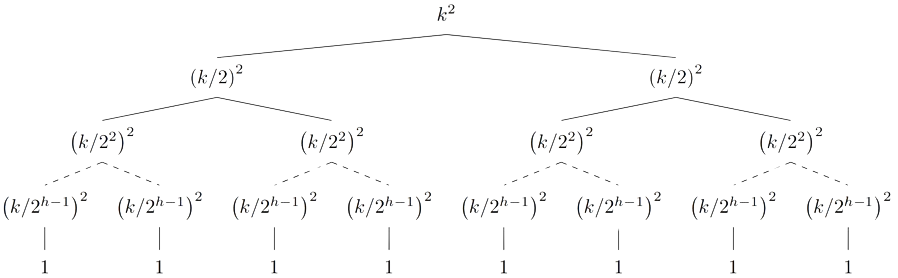
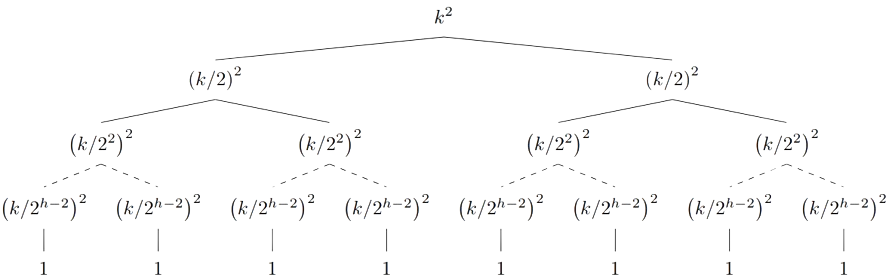
resized image

diff --git a/public/posts/mpitree-project/index.html b/public/posts/mpitree-project/index.html
@@ -64,7 +64,7 @@
 <meta property="og:type" content="article" />
 <meta property="og:url" content="https://michaelneuper.github.io/hugo-texify3/posts/mpitree-project/" /><meta property="article:section" content="posts" />
 <meta property="article:published_time" content="2023-05-16T00:00:00+00:00" />
-<meta property="article:modified_time" content="2024-01-19T01:13:41-08:00" /><meta property="og:site_name" content="Jason Duong" />
+<meta property="article:modified_time" content="2024-01-19T04:05:47-08:00" /><meta property="og:site_name" content="Jason Duong" />
 
 
 
@@ -75,8 +75,8 @@
   
   <meta itemprop="name" content="A Parallel Decision Tree Classifier">
 <meta itemprop="description" content="A Parallel Decision Tree Classifier implementation using MPI (Message Passing Interface)"><meta itemprop="datePublished" content="2023-05-16T00:00:00+00:00" />
-<meta itemprop="dateModified" content="2024-01-19T01:13:41-08:00" />
-<meta itemprop="wordCount" content="1147">
+<meta itemprop="dateModified" content="2024-01-19T04:05:47-08:00" />
+<meta itemprop="wordCount" content="1129">
 <meta itemprop="keywords" content="Python,LaTeX,Black,Git," />
 
   
@@ -183,7 +183,7 @@
           <svg width="0.75em" height="0.75em" viewBox="0 0 24 24" fill="none" xmlns="http://www.w3.org/2000/svg">
             <path d="M15.4998 5.49994L18.3282 8.32837M3 20.9997L3.04745 20.6675C3.21536 19.4922 3.29932 18.9045 3.49029 18.3558C3.65975 17.8689 3.89124 17.4059 4.17906 16.9783C4.50341 16.4963 4.92319 16.0765 5.76274 15.237L17.4107 3.58896C18.1918 2.80791 19.4581 2.80791 20.2392 3.58896C21.0202 4.37001 21.0202 5.63634 20.2392 6.41739L8.37744 18.2791C7.61579 19.0408 7.23497 19.4216 6.8012 19.7244C6.41618 19.9932 6.00093 20.2159 5.56398 20.3879C5.07171 20.5817 4.54375 20.6882 3.48793 20.9012L3 20.9997Z" stroke="currentColor" stroke-width="2" stroke-linecap="round" stroke-linejoin="round"/>
           </svg>
-          1147 words
+          1129 words
         </span>
       
       
@@ -248,20 +248,27 @@
     
     <p><a href="https://github.com/ben-my-to/mpitree">Source Code</a></p>
 <h2 id="try-it-out1">Try it Out!<sup id="fnref:1"><a href="#fn:1" class="footnote-ref" role="doc-noteref">1</a></sup></h2>
-<script type="text/javascript" src="https://code.jquery.com/jquery-1.7.1.min.js"></script>
+<p><a href="https://jsfiddle.net/nbkLudma/1/">jsfiddle</a></p>
+<!-- <script type="text/javascript" src="https://code.jquery.com/jquery-1.7.1.min.js"></script>
+
 <input type="range" id="range" min="0" max="10" value="10" oninput="update_max_depth(this.value);">
 max_depth = <output id="slider1-value"></output>
+
 <input type="range" id="range2" min="1" max="50" value="40" oninput="update_n_samples(this.value);">
 n_samples = <output id="slider2-value"></output>
+
 <input type="range" id="range3" min="1" max="4" value="3" oninput="update_n_classes(this.value);">
 n_classes = <output id="slider3-value"></output>
-<p>$\text{Train/Test Accuracy}$ = <output id="accuracy"></output></p>
-<p><button type="button" onclick="gen_points(); redraw()" style="height: 40px; width: 200px;">Generate New Training Data</button></p>
-<!-- <script type="text/javascript" src="js/dt.js"></script> -->
+
+$\text{Train/Test Accuracy}$ = <output id="accuracy"></output>
+
+<button type="button" onclick="gen_points(); redraw()" style="height: 40px; width: 200px;">Generate New Training Data</button>
+
 <figure>
     <canvas width="800" height="400" id="boundary"></canvas><br>
     <figurecaption>Fig. 1: Decision Tree Classifier Demo</figurecaption>
 </figure>
+
 <script type="text/javascript">
 // MODIFIED FROM: http://vision.stanford.edu/teaching/cs231n-demos/knn/knn.js
 
@@ -714,7 +721,7 @@ function draw_boundaries(ctx, state, step) {
   }
   document.getElementById("accuracy").innerHTML = accuracy_score(clf, state.points).toString() + "/" + accuracy_score(clf, state.test);
 }
-</script>
+</script> -->
 <h2 id="introduction">Introduction</h2>
 <p>A <strong>Decision Tree</strong> is an $n$-nary tree where each node represents a feature <em>(interior nodes)</em> or response <em>(terminal/leaf nodes)</em> value, and each branch represents a condition on some feature. Decision Trees are intuitive <em>supervised</em> machine learning algorithms for both classification and regression problems. Decision Trees behave by posing questions about the data to narrow their choices until they are somewhat confident in their predictions. The fundamental procedure for a decision tree involves recursively querying each feature and partitioning the dataset and feature space into disjoint subsets and regions until there is no ambiguity about the response variable. The primary goal of any machine learning model is <em>generalization</em> &ndash; the model&rsquo;s ability to perform well on future, unseen data. Therefore, the general approach to learning an optimal decision tree involves asking &ldquo;good&rdquo; questions <em>(<strong>split features</strong> &ndash; the features that maximize the information gain<sup id="fnref:2"><a href="#fn:2" class="footnote-ref" role="doc-noteref">2</a></sup>)</em> about the data that leads to the most certainty about the response variable each time.</p>
 <p>A <strong>Decision Tree Classifier</strong> is a decision tree whose prediction of a response variable is from a set of finite classes <em>(multi-classification)</em>. Given some observed data, examples of classification-type problems is: whether an incoming patient has cancer, an email is spam or not, or a fruit is an apple, banana, or orange.</p>
@@ -757,10 +764,10 @@ $$</p>
 <p>Proof by Induction.</p>
 <p>At every terminated recursive call from a parent communicator $|m|\ge 2$, each process must exchange $k$ messages for a total of $k^2$ messages through the <code>MPI.allgather</code> function. As such, each process obtains a sub-tree computed by every other process.</p>
 <figure class="image">
-<img src="https://raw.githubusercontent.com/ben-my-to/website/main/static/images/num_mess_exchange.png" alt="Message Exchanges" style="width:45%;display:block;margin-left:auto;margin-right:auto;">
+<img src="https://raw.githubusercontent.com/ben-my-to/website/main/static/images/num_mess_exchange.png" alt="Message Exchanges" style="width:55%;display:block;margin-left:auto;margin-right:auto;">
   <figcaption>Fig. 5: Message Exchanges Example</figcaption>
 </figure>
-<p><strong>Definition 1</strong> constructs a full $n$-nary communicator tree $\mathbf{M}$  <em>(each node has 0 or $n$ children)</em> of height $h=\lceil\log_n k\rceil + 1$. Let $c\in[h]$, where $[h]=\lbrace 0,\ldots,\lceil\log_n k\rceil\rbrace$, be the number of splits; each performed by <code>MPI.Split</code>. At split $c=0$, processors exchange $k^2$ messages. At the successor split $c=1$, processors exchange $n\cdot(k/n)^2$ messages. At split $c=3$, processors exchange $n^2\cdot(k/n^4)^2$ and so on and so forth<sup id="fnref:5"><a href="#fn:5" class="footnote-ref" role="doc-noteref">5</a></sup>. Therefore, we can define the recurrence relation $\mathcal{M}(k)$, the total number of exchanged messages by $k$ processors, as</p>
+<p><strong>Definition 1</strong> constructs a full $n$-nary communicator tree $\mathbf{M}$  <em>(each node has 0 or $n$ children)</em> of height $h=\lceil\log_n k\rceil + 1$. Let $c\in[h]$, where $[h]=\left[0,\ldots,\lceil\log_n k\rceil\right)$, be the number of splits; each performed by <code>MPI.Split</code>. At split $c=0$, processors exchange $k^2$ messages. At the successor split $c=1$, processors exchange $n\cdot(k/n)^2$ messages. At split $c=3$, processors exchange $n^2\cdot(k/n^4)^2$ and so on and so forth<sup id="fnref:5"><a href="#fn:5" class="footnote-ref" role="doc-noteref">5</a></sup>. Therefore, we can define the recurrence relation $\mathcal{M}(k)$, the total number of exchanged messages by $k$ processors, as</p>
 <p>$$
 \mathcal{M}(k)=
 \begin{cases}
@@ -775,16 +782,16 @@ $$</p>
 &amp;= (1)\cdot k^2 + \left[n^{(1)} \cdot (k/n)^2 + \mathcal{M}(k/n^2)\right]\\
 &amp;= {\color{blue}k^2} + nk^2/n^2 + \left[n^{(2)} \cdot (k/n^2)^2 + \mathcal{M}(k/n^3)\right]\\
 &amp;\ \ \vdots&amp; \\
-&amp;= k^2 + {\color{blue}k^2/n} + n^2 k^2/n^4 + \mathcal{M}(k/n^3) + \dots + \mathcal{M}(k/n^{h-1})\\
+&amp;= k^2 + {\color{blue}k^2/n} + n^2 k^2/n^4 + \mathcal{M}(k/n^3) + \dots + \mathcal{M}(k/n^{h-2})\\
 &amp;= k^2 + k^2/n + {\color{blue}k^2/n^2} + n^3 k^2/n^6 + \dots + \left[n^{\lceil\log_n(k)\rceil-1}\cdot (k/n^{\lceil\log_n(k)\rceil-1})^2 + \mathcal{M}(1)\right]\\
-&amp;= k^2 + k^2/n + k^2/n^2 + {\color{blue}k^2/n^3} + \dots + kn^{-1}\cdot k^2/n^{2\lceil\log_n(k)\rceil-2} + 0\\
-&amp;= k^2 + k^2/n + k^2/n^2 + k^2/n^3 + \dots + kn^{-1}\cdot k^2/k^2n^{-2}\\
+&amp;= k^2 + k^2/n + k^2/n^2 + {\color{blue}k^2/n^3} + \dots + (k/n)\cdot k^2/n^{2(\lceil\log_n(k)\rceil)-2} + 0\\
+&amp;= k^2 + k^2/n + k^2/n^2 + k^2/n^3 + \dots + (k/n)\cdot k^2n^2/k^2\\
 &amp;= k^2 + k^2/n + k^2/n^2 + k^2/n^3 + \dots + {\color{blue}kn}.
 \end{align}
 $$</p>
 <p>Thus, the worst-case message complexity of $\mathcal{T}$ is</p>
 <p>$$
-O\left(\mathcal{M}(k)\right)=O\left(\sum_{c=0}^{h-1} k^2n^{-c}\right) = O\left(k^2+k^2n^{-1}+k^2 n^{-2}+\dots+kn\right) = O(k^2).
+O\left(\mathcal{M}(k)\right)=O\left(\sum_{c=0}^{h-2} k^2n^{-c}\right) = O\left(k^2+k^2n^{-1}+k^2 n^{-2}+\dots+kn\right) = O(k^2).
 $$</p>
 <p style="float:right">$\blacksquare$</p>
 <h2 id="future-works">Future Works</h2>
@@ -805,7 +812,7 @@ $$</p>
 <p>Figure 3 illustrates decision boundaries for different values of the <code>max_depth</code> hyperparameter on the iris dataset provided by <em>scikit-learn</em>. The figure showcases how noisy instances may negatively impact the performance of the decision tree model as the depth increases.&#160;<a href="#fnref:4" class="footnote-backref" role="doc-backlink">&#x21a9;&#xfe0e;</a></p>
 </li>
 <li id="fn:5">
-<p>Figure 5 shows the number of messages exchanged at each level of a perfect <em>(although not necessary)</em> binary tree ($n=2$). Each split $c$ reduces the number of processes by two until the remaining nodes are singletons ($c=h$). <strong>NOTE</strong>: we consider integer division throughout the proof.&#160;<a href="#fnref:5" class="footnote-backref" role="doc-backlink">&#x21a9;&#xfe0e;</a></p>
+<p>Figure 5 shows the number of messages exchanged at each level of a perfect <em>(although not necessary)</em> binary tree ($n=2$). Each split $c$ reduces the number of processes by two until all remaining nodes are singletons, when $c=h$. <strong>NOTE</strong>: we consider integer division throughout the proof.&#160;<a href="#fnref:5" class="footnote-backref" role="doc-backlink">&#x21a9;&#xfe0e;</a></p>
 </li>
 </ol>
 </div>

diff --git a/content/posts/mpitree-project.md b/content/posts/mpitree-project.md
@@ -20,7 +20,9 @@ categories: [
 
 ## Try it Out![^1]
 
-<script type="text/javascript" src="https://code.jquery.com/jquery-1.7.1.min.js"></script>
+[jsfiddle](https://jsfiddle.net/nbkLudma/1/)
+
+<!-- <script type="text/javascript" src="https://code.jquery.com/jquery-1.7.1.min.js"></script>
 
 <input type="range" id="range" min="0" max="10" value="10" oninput="update_max_depth(this.value);">
 max_depth = <output id="slider1-value"></output>
@@ -34,8 +36,6 @@ n_classes = <output id="slider3-value"></output>
 $\text{Train/Test Accuracy}$ = <output id="accuracy"></output>
 
 <button type="button" onclick="gen_points(); redraw()" style="height: 40px; width: 200px;">Generate New Training Data</button>
-
-<!-- <script type="text/javascript" src="js/dt.js"></script> -->
 
 <figure>
     <canvas width="800" height="400" id="boundary"></canvas><br>
@@ -494,7 +494,7 @@ function draw_boundaries(ctx, state, step) {
   }
   document.getElementById("accuracy").innerHTML = accuracy_score(clf, state.points).toString() + "/" + accuracy_score(clf, state.test);
 }
-</script>
+</script> -->
 
 [^1]: Figure 1 provides an online visualization of the decision boundaries decided by a Decision Tree Classifier. Feel free to drag individual data points and sliders to explore how the decision boundary and accuracy of the model changes. This script is a modified version from [CS231n-demos](http://vision.stanford.edu/teaching/cs231n-demos/knn/).
 
@@ -572,13 +572,13 @@ Proof by Induction.
 At every terminated recursive call from a parent communicator $|m|\ge 2$, each process must exchange $k$ messages for a total of $k^2$ messages through the `MPI.allgather` function. As such, each process obtains a sub-tree computed by every other process.
 
 <figure class="image">
-<img src="https://raw.githubusercontent.com/ben-my-to/website/main/static/images/num_mess_exchange.png" alt="Message Exchanges" style="width:45%;display:block;margin-left:auto;margin-right:auto;">
+<img src="https://raw.githubusercontent.com/ben-my-to/website/main/static/images/num_mess_exchange.png" alt="Message Exchanges" style="width:55%;display:block;margin-left:auto;margin-right:auto;">
   <figcaption>Fig. 5: Message Exchanges Example</figcaption>
 </figure>
 
-__Definition 1__ constructs a full $n$-nary communicator tree $\mathbf{M}$  _(each node has 0 or $n$ children)_ of height $h=\lceil\log_n k\rceil + 1$. Let $c\in[h]$, where $[h]=\lbrace 0,\ldots,\lceil\log_n k\rceil\rbrace$, be the number of splits; each performed by `MPI.Split`. At split $c=0$, processors exchange $k^2$ messages. At the successor split $c=1$, processors exchange $n\cdot(k/n)^2$ messages. At split $c=3$, processors exchange $n^2\cdot(k/n^4)^2$ and so on and so forth[^5]. Therefore, we can define the recurrence relation $\mathcal{M}(k)$, the total number of exchanged messages by $k$ processors, as
+__Definition 1__ constructs a full $n$-nary communicator tree $\mathbf{M}$  _(each node has 0 or $n$ children)_ of height $h=\lceil\log_n k\rceil + 1$. Let $c\in[h]$, where $[h]=\left[0,\ldots,\lceil\log_n k\rceil\right)$, be the number of splits; each performed by `MPI.Split`. At split $c=0$, processors exchange $k^2$ messages. At the successor split $c=1$, processors exchange $n\cdot(k/n)^2$ messages. At split $c=3$, processors exchange $n^2\cdot(k/n^4)^2$ and so on and so forth[^5]. Therefore, we can define the recurrence relation $\mathcal{M}(k)$, the total number of exchanged messages by $k$ processors, as
 
-[^5]: Figure 5 shows the number of messages exchanged at each level of a perfect _(although not necessary)_ binary tree ($n=2$). Each split $c$ reduces the number of processes by two until the remaining nodes are singletons ($c=h$). __NOTE__: we consider integer division throughout the proof.
+[^5]: Figure 5 shows the number of messages exchanged at each level of a perfect _(although not necessary)_ binary tree ($n=2$). Each split $c$ reduces the number of processes by two until all remaining nodes are singletons, when $c=h$. __NOTE__: we consider integer division throughout the proof.
 
 $$
 \mathcal{M}(k)=
@@ -596,10 +596,10 @@ $$
                &= (1)\cdot k^2 + \left[n^{(1)} \cdot (k/n)^2 + \mathcal{M}(k/n^2)\right]\\\
                &= {\color{blue}k^2} + nk^2/n^2 + \left[n^{(2)} \cdot (k/n^2)^2 + \mathcal{M}(k/n^3)\right]\\\
                &\ \ \vdots& \\\
-               &= k^2 + {\color{blue}k^2/n} + n^2 k^2/n^4 + \mathcal{M}(k/n^3) + \dots + \mathcal{M}(k/n^{h-1})\\\
+               &= k^2 + {\color{blue}k^2/n} + n^2 k^2/n^4 + \mathcal{M}(k/n^3) + \dots + \mathcal{M}(k/n^{h-2})\\\
                &= k^2 + k^2/n + {\color{blue}k^2/n^2} + n^3 k^2/n^6 + \dots + \left[n^{\lceil\log_n(k)\rceil-1}\cdot (k/n^{\lceil\log_n(k)\rceil-1})^2 + \mathcal{M}(1)\right]\\\
-               &= k^2 + k^2/n + k^2/n^2 + {\color{blue}k^2/n^3} + \dots + kn^{-1}\cdot k^2/n^{2\lceil\log_n(k)\rceil-2} + 0\\\
-               &= k^2 + k^2/n + k^2/n^2 + k^2/n^3 + \dots + kn^{-1}\cdot k^2/k^2n^{-2}\\\
+               &= k^2 + k^2/n + k^2/n^2 + {\color{blue}k^2/n^3} + \dots + (k/n)\cdot k^2/n^{2(\lceil\log_n(k)\rceil)-2} + 0\\\
+               &= k^2 + k^2/n + k^2/n^2 + k^2/n^3 + \dots + (k/n)\cdot k^2n^2/k^2\\\
                &= k^2 + k^2/n + k^2/n^2 + k^2/n^3 + \dots + {\color{blue}kn}.
 \end{align}
 $$
@@ -607,7 +607,7 @@ $$
 Thus, the worst-case message complexity of $\mathcal{T}$ is
 
 $$
-O\left(\mathcal{M}(k)\right)=O\left(\sum_{c=0}^{h-1} k^2n^{-c}\right) = O\left(k^2+k^2n^{-1}+k^2 n^{-2}+\dots+kn\right) = O(k^2).
+O\left(\mathcal{M}(k)\right)=O\left(\sum_{c=0}^{h-2} k^2n^{-c}\right) = O\left(k^2+k^2n^{-1}+k^2 n^{-2}+\dots+kn\right) = O(k^2).
 $$
 
 <p style="float:right">$\blacksquare$</p>
